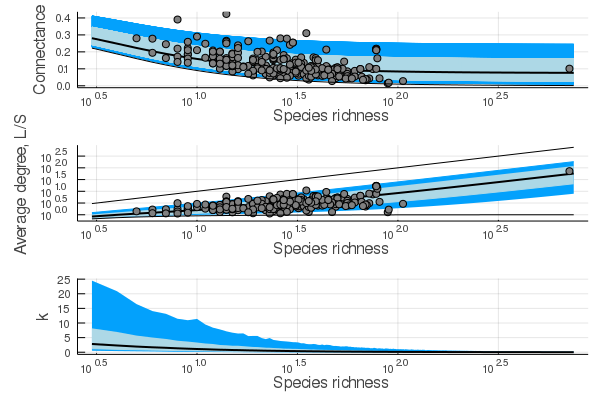
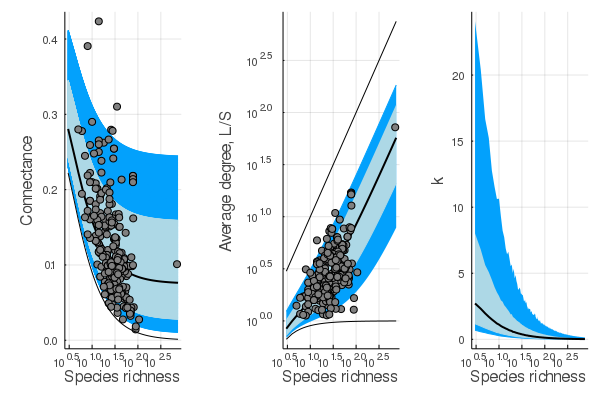
3panel figure wide and in the text

diff --git a/manuscript.md b/manuscript.md
@@ -279,6 +279,8 @@ Constant connectance model makes many predictions which are only approximate. Th
 they are frequently too low. The beta binomial makes roughly the same predictions as the power law, but in
 this case they are held within biologically possible values.
 
+![Connectance and average degree can be derived from a model for links](figures/fig_04_linkdens_connect_k.png){#fig:beta_distributions}
+
 ## Average degree is constant (for large enough food webs)
 
 <!-- tk I don't know what to do with "average degree" -- I like the arguments here, and I like this interpretation of how adding p^-1 species increases average degree, but we have not been talking about this at all yet. -->
